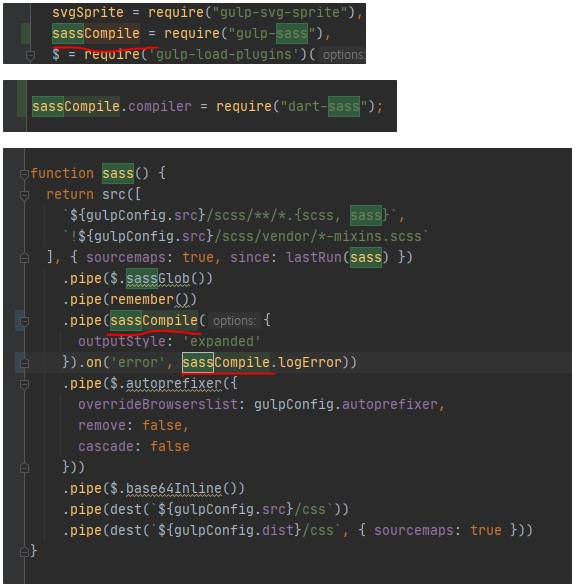
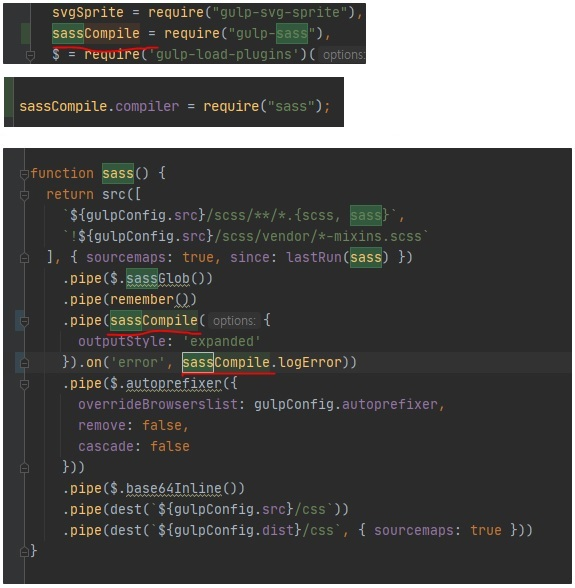
post upt

Changed region(s): [[0.0, 0.1224, 0.7096, 0.2449]]

diff --git a/_posts/2020-11-25-module.md b/_posts/2020-11-25-module.md
@@ -6,6 +6,13 @@ categories:
 - node_module
 ---
 
+## dart-sass 모듈 이름 dart-sass 아니야!! sass야!!
+
+* [참고 자료](https://www.npmjs.com/package/dart-sass){:target="_blank"}
+* [참고 자료](https://www.npmjs.com/package/sass){:target="_blank"}
+
+---
+
 * [참고자료](https://itnext.io/the-css-preprocessor-dilemma-node-sass-or-dart-sass-32a0a096572){:target="_blank"}
 * [참고자료2](https://github.com/sass/dart-sass#from-npm){:target="_blank"}
 * [참고자료3](https://sass-lang.com/dart-sass#main-content){:target="_blank"}
